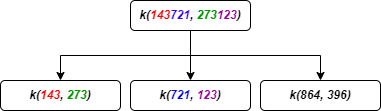
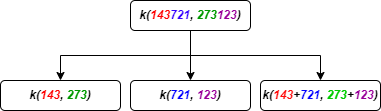
Sprint 3 corrigida para a parte de explicação do método

Changed region(s): [[0.664, 0.8108, 1.0, 0.9189]]

diff --git a/desprog-orfalius/src/handout.md b/desprog-orfalius/src/handout.md
@@ -198,9 +198,9 @@ Primeiro, precisamos deixar claro que o algoritmo de Karatsuba é um algoritmo d
 
 ??? Checkpoint
 
-Tendo em mente o que foi dito acima, pense em como você dividiria o problema da multiplicação entre dois números de 6 dígitos. Como torná-la mais fácil de trabalhar e dividir o problema em mais partes?
+Tendo em mente o que foi dito acima, pense em como você dividiria o problema da multiplicação entre dois números de 6 dígitos. Como torná-la mais fácil de trabalhar e dividir o problema em mais partes? Ou seja, como torná-las em multiplicações de 1 dígito só?
 
-**OBS:** Não tente pensar em nada muito complexo, a resposta pode ser mais simples do que imagina. 
+**OBS:** Não tente pensar em nada muito complexo, a resposta pode ser mais simples do que imagina. Tente escrever um passo a passo do que você faria para resolver o problema.
 
 ::: Gabarito
 
@@ -248,7 +248,7 @@ Bom, então usando o exemplo de cima, podemos separar os dois termos que estão 
 
 ??? Checkpoint
 
-Certo, sendo assim, se obtivermos essa separação, teremos os termos necessários para seguir com o método de Karatsuba.  Mas então como seria a representação matemática de X e Y estando separados? 
+Certo, sendo assim, se obtivermos essa separação, teremos os termos necessários para seguir com o método de Karatsuba.  Mas então como chegamos em X e Y a partir de A,B,C e D? Que contas são necessárias fazer? 
 
 !!! Não se esqueça
 
@@ -298,18 +298,21 @@ Lembra que o nosso objetivo desde o ínicio é reduzir o número de multiplicaç
 
 Imagine agora o que deveríamos fazer após separar os termos desses números, já que agora temos uma multiplicação entre dois números de 3 dígitos cada um. Porém, como faremos cada uma delas? Lembra do que acabamos de falar? Queremos reduzir o número de multiplicações e podemos fazer isso na EFK. Mais precisamente podemos reduzir as 4 mutiplicações que estão sendo realizadas ($AC$, $AD$, $BC$ e $BD$) para 3.
 
-Logo, como você reduziria o número de multiplicações totais?
-
+Logo, como você reduziria o número de multiplicações totais? Lembre que somas extras nas contas não importam para a eficiência do algoritmo no final, já que as somas são O(n) e, como será explicado mais para frente nesse Handout, a complexidade do nosso algoritmo é superior a isso. 
 
 !!! Dica
 
-E pense no seguinte, de qualquer forma você terá que calcular $AC$ e $BD$, como então reduzir essa soma de multiplicações: $AD + BC$?
+Para facilitar o processo, inicie o seu pensamento a partir da seguinte conta:
+
+$(A + B).(C + D)$
+
+Como chegar em $AD + BC$ a partir da conta acima?
 
 !!!
 
 ::: Gabarito
 
-Sabemos que precisaremos calcular $AC$, $BD$ e $AD + BC$ para aplicar na EFK. Logo, teremos de cara 2 multiplicações entre 3 dígitos cada, a de $AC$ e $BD$, correto _meu pequeno gafanhoto_? Sendo assim, ainda precisamos encontrar uma forma de realizar o cálculo de $AD + BC$, o que chamaremos de {red}(termo misterioso) sem passos extras desnecessários. Logo, com algumas _matemágicas_:
+Sabemos que precisaremos calcular $AC$, $BD$ e $AD + BC$ para aplicar na EFK. Logo, teremos de cara 2 multiplicações entre 3 dígitos cada, a de $AC$ e $BD$, correto _meu pequeno gafanhoto_? Sendo assim, ainda precisamos encontrar uma forma de realizar o cálculo de $AD + BC$, o que chamaremos de {red}(termo misterioso) sem passos extras desnecessários. Logo, a partir da dica acima e com algumas _matemágicas_ , ou seja, retirando os termos desnecessários por meio de subtrações (já que, como dito acima, as somas não alteram a complexidade do algoritmo):
 
 $= (A + B).(C + D) - AC - BD$
 
